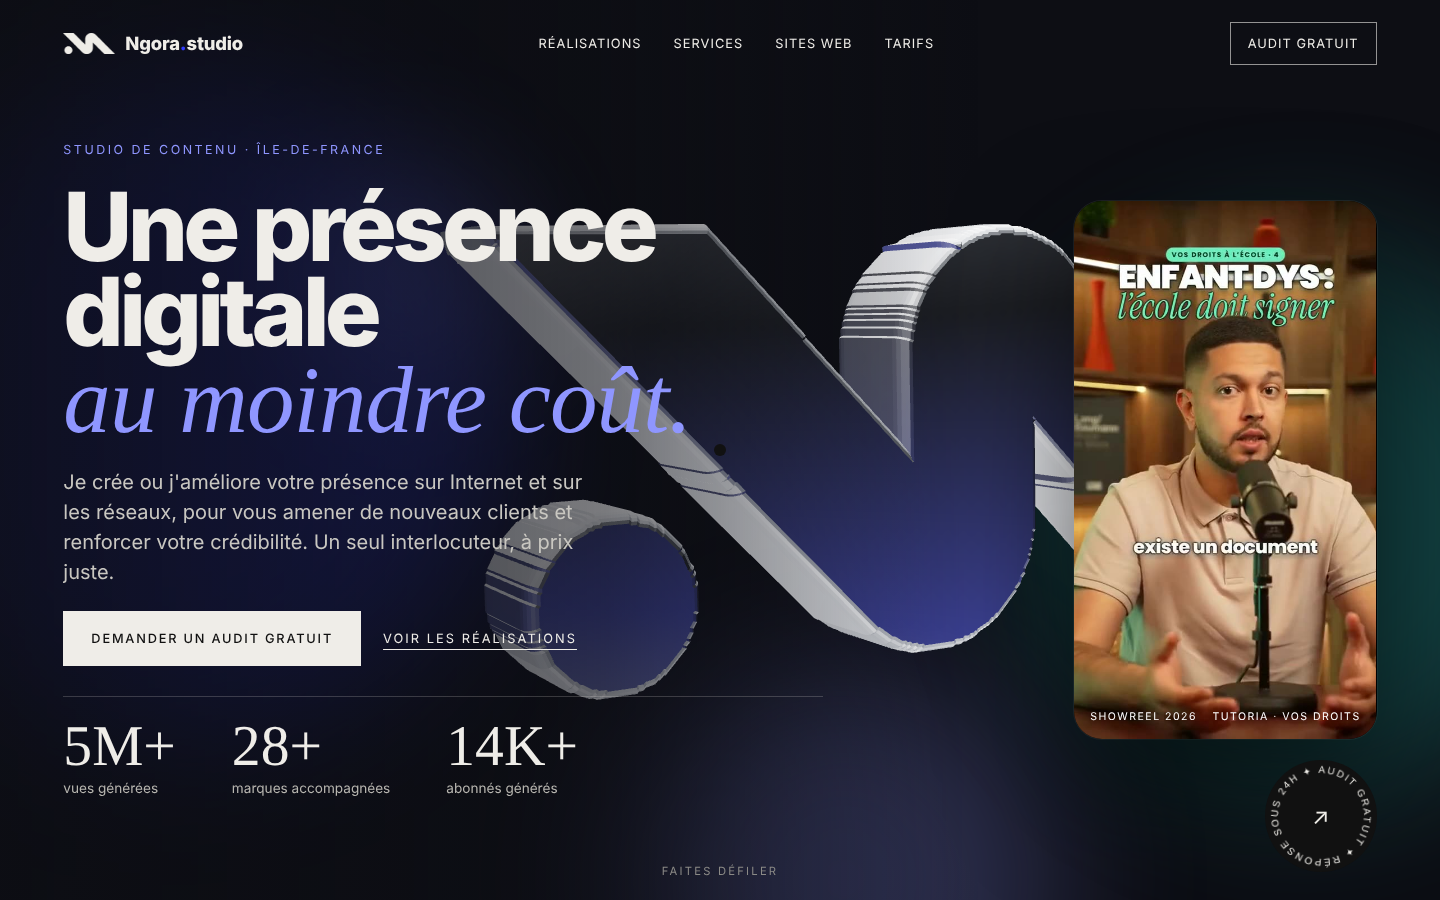
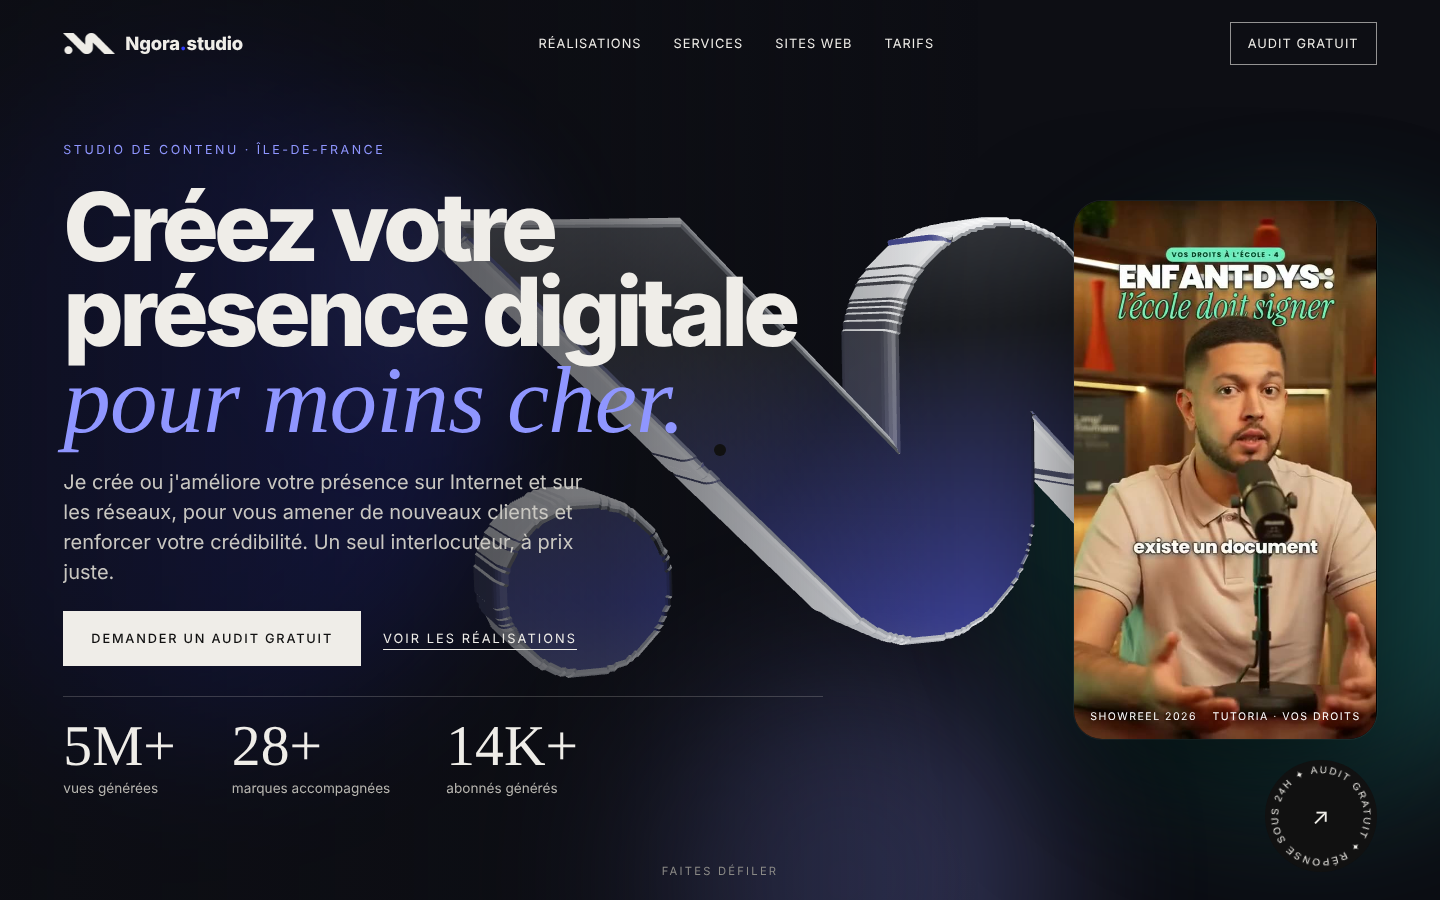
Proposition : tarifs en comparaison coche / croix, nouveau titre du haut de page
Claude-Session: https://claude.ai/code/session_018tAZYAxUmFNbKmCfUcRUAq

diff --git a/index.html b/index.html
@@ -10,14 +10,14 @@
 <meta property="og:locale" content="fr_FR">
 <meta property="og:site_name" content="Ngora Studio">
 <meta property="og:url" content="https://nguedjeupatrick-ctrl.github.io/ngora-site/">
-<meta property="og:title" content="Ngora Studio · Une présence digitale au moindre coût.">
+<meta property="og:title" content="Ngora Studio · Créez votre présence digitale pour moins cher.">
 <meta property="og:description" content="Montage vidéo pro, motion design, DA et sites web, livrés en 24 h max, pour le moins cher. 5M+ vues générées pour mes clients en Île-de-France.">
 <meta property="og:image" content="https://nguedjeupatrick-ctrl.github.io/ngora-site/assets/og.jpg">
 <meta property="og:image:width" content="1200">
 <meta property="og:image:height" content="630">
-<meta property="og:image:alt" content="Ngora Studio : une présence digitale au moindre coût. Montage, motion design, DA et sites web.">
+<meta property="og:image:alt" content="Ngora Studio : créez votre présence digitale pour moins cher. Montage, motion design, DA et sites web.">
 <meta name="twitter:card" content="summary_large_image">
-<meta name="twitter:title" content="Ngora Studio · Une présence digitale au moindre coût.">
+<meta name="twitter:title" content="Ngora Studio · Créez votre présence digitale pour moins cher.">
 <meta name="twitter:description" content="Montage vidéo pro, motion design, DA et sites web, livrés en 24 h max, pour le moins cher.">
 <meta name="twitter:image" content="https://nguedjeupatrick-ctrl.github.io/ngora-site/assets/og.jpg">
 <meta name="theme-color" content="#EFEDE8">
@@ -620,6 +620,14 @@
   .tile.tk.playing::after{opacity:1}
   .tile.tk:hover .tk-play,.tile.tk.playing .tk-play{opacity:0;transform:scale(.6)}
   @media (hover:none){.tile.tk[data-cursor="Play"]::after{content:"";width:auto;height:auto;border-radius:0;transform:none;left:0;top:0;margin:0}}
+  /* tarifs : comparaison coche / croix */
+  .plan ul.cmp li{position:relative;padding-left:30px}
+  .plan ul.cmp li::before{position:absolute;left:0;top:9px;width:20px;height:20px;border-radius:50%;display:flex;align-items:center;justify-content:center;font-size:.72rem;font-weight:800;line-height:1}
+  .plan ul.cmp li.ok::before{content:"✓";background:var(--cobalt);color:var(--paper)}
+  .plan ul.cmp li.no{color:var(--stone)}
+  .plan ul.cmp li.no::before{content:"✕";box-shadow:inset 0 0 0 1px var(--stone);color:var(--stone)}
+  .plan ul.cmp b{font-weight:800}
+  .sr{position:absolute;width:1px;height:1px;overflow:hidden;clip-path:inset(50%)}
 </style>
 </head>
 <body class="no-js">
@@ -662,7 +670,7 @@
   <div class="hero-in wrap">
     <div class="hero-txt">
       <div class="kick hx">Studio de contenu · Île-de-France</div>
-      <h1 class="hx">Une présence digitale<br><span class="it">au moindre coût.</span></h1>
+      <h1 class="hx">Créez votre présence digitale<br><span class="it">pour moins cher.</span></h1>
       <p class="lead hx">Je crée ou j'améliore votre présence sur Internet et sur les réseaux, pour vous amener de nouveaux clients et renforcer votre crédibilité. Un seul interlocuteur, à prix juste.</p>
       <div class="hero-ctas hx"><a href="#contact" class="btn" data-wa>Demander un audit gratuit</a><a href="#travaux" class="ulink">Voir les réalisations</a></div>
       <div class="hero-stats hx">
@@ -861,9 +869,9 @@
     <div class="kick">Tarifs</div>
     <h2 class="h2 rv" style="margin-top:18px">La qualité d'un studio,<br><span class="it">le prix d'un indépendant.</span></h2>
     <div class="plans">
-      <div class="plan"><span class="tag">Formule I</span><h3>Visible</h3><p class="for">Des réseaux tenus à jour, et on vous trouve sur Google.</p><div class="price">299€<small> /mois</small></div><ul><li><b>Gestion de 2 réseaux</b> au choix (Instagram, TikTok, Facebook…)</li><li>4 publications par mois : posts, carrousels et stories, avec vos photos</li><li>Idées de contenu, textes et hashtags rédigés pour vous</li><li>Création des visuels à vos couleurs</li><li>Programmation et publication aux bonnes heures</li><li>Fiche Google, annuaires et IA : on vous trouve sur Google, sur Maps et quand on demande à une IA</li><li>Réponse à chaque avis Google et QR code « laissez un avis »</li></ul><a class="btn line" href="#contact" data-wa>En parler</a></div>
-      <div class="plan hot"><span class="tag">Formule II · Recommandée</span><h3>Actif</h3><p class="for">On vous trouve, on vous choisit, on vous suit.</p><div class="price">499€<small> /mois</small></div><ul><li><b>Gestion de 4 réseaux</b> (Instagram, TikTok, Facebook, YouTube Shorts)</li><li>12 publications par mois : posts, carrousels et stories</li><li>1 tournage sur place et 8 vidéos montées par mois (reels, TikTok, Shorts), avec sous-titres et habillage</li><li>Idées, scripts et textes rédigés pour vous</li><li>Création design et motion design</li><li>DA &amp; rebranding : couleurs, feed, stories à la une, couvertures</li><li>Publication, réponses aux commentaires et aux messages</li><li>Fiche Google, annuaires et IA : on vous trouve sur Google, sur Maps et quand on demande à une IA</li><li>Réponse à chaque avis Google et QR code « laissez un avis »</li><li>Un point sur vos chiffres chaque mois</li></ul><a class="btn" href="#contact" data-wa>En parler</a></div>
-      <div class="plan"><span class="tag">Formule III</span><h3>Complet</h3><p class="for">Je gère toute votre présence en ligne, site compris.</p><div class="price">699€<small> /mois</small></div><ul><li><b>Gestion de tous vos réseaux</b> (Instagram, TikTok, YouTube Shorts, Facebook, LinkedIn)</li><li>20 publications par mois : posts, carrousels et stories</li><li>Tournage sur place et 16 vidéos montées par mois, avec sous-titres et habillage</li><li>Idées, scripts et textes rédigés pour vous</li><li>Création design et motion design</li><li>DA &amp; rebranding complet : couleurs, feed, stories à la une, couvertures</li><li>Publication, réponses aux commentaires et aux messages</li><li>Fiche Google, annuaires et IA : on vous trouve sur Google, sur Maps et quand on demande à une IA</li><li>Réponse à chaque avis Google et QR code « laissez un avis »</li><li>2 articles par mois pour sortir sur Google</li><li>Un site simple d'une page, pensé pour le téléphone</li><li>Un point sur vos chiffres chaque mois</li></ul><a class="btn line" href="#contact" data-wa>En parler</a></div>
+      <div class="plan"><span class="tag">Formule I</span><h3>Visible</h3><p class="for">Des réseaux tenus à jour, et on vous trouve sur Google.</p><div class="price">299€<small> /mois</small></div><ul class="cmp"><li class="ok"><b>2 réseaux</b> au choix (Instagram, TikTok, Facebook…)</li><li class="ok"><b>4 publications</b> par mois : posts, carrousels, stories</li><li class="ok">Idées, scripts et textes rédigés pour vous</li><li class="ok"><b>DA &amp; rebranding</b> : couleurs, feed, stories à la une, couvertures</li><li class="ok"><b>Fiche Google, annuaires et IA</b> : on vous trouve partout</li><li class="ok">Réponse à chaque avis Google et QR code « laissez un avis »</li><li class="no"><span class="sr">Non inclus : </span>Vidéos montées</li><li class="no"><span class="sr">Non inclus : </span>Motion design</li><li class="no"><span class="sr">Non inclus : </span>Réponses aux commentaires et aux messages</li><li class="no"><span class="sr">Non inclus : </span>Un point sur vos chiffres chaque mois</li><li class="no"><span class="sr">Non inclus : </span>Articles pour sortir sur Google</li><li class="no"><span class="sr">Non inclus : </span>Un site d'une page, pensé pour le téléphone</li></ul><a class="btn line" href="#contact" data-wa>En parler</a></div>
+      <div class="plan hot"><span class="tag">Formule II · Recommandée</span><h3>Actif</h3><p class="for">On vous trouve, on vous choisit, on vous suit.</p><div class="price">499€<small> /mois</small></div><ul class="cmp"><li class="ok"><b>4 réseaux</b> (Instagram, TikTok, Facebook, YouTube Shorts)</li><li class="ok"><b>12 publications</b> par mois : posts, carrousels, stories</li><li class="ok">Idées, scripts et textes rédigés pour vous</li><li class="ok"><b>DA &amp; rebranding</b> : couleurs, feed, stories à la une, couvertures</li><li class="ok"><b>Fiche Google, annuaires et IA</b> : on vous trouve partout</li><li class="ok">Réponse à chaque avis Google et QR code « laissez un avis »</li><li class="ok"><b>8 vidéos</b> montées par mois, 1 tournage sur place</li><li class="ok">Motion design</li><li class="ok">Réponses aux commentaires et aux messages</li><li class="ok">Un point sur vos chiffres chaque mois</li><li class="no"><span class="sr">Non inclus : </span>Articles pour sortir sur Google</li><li class="no"><span class="sr">Non inclus : </span>Un site d'une page, pensé pour le téléphone</li></ul><a class="btn" href="#contact" data-wa>En parler</a></div>
+      <div class="plan"><span class="tag">Formule III</span><h3>Complet</h3><p class="for">Je gère toute votre présence en ligne, site compris.</p><div class="price">699€<small> /mois</small></div><ul class="cmp"><li class="ok"><b>Tous vos réseaux</b>, LinkedIn compris</li><li class="ok"><b>20 publications</b> par mois : posts, carrousels, stories</li><li class="ok">Idées, scripts et textes rédigés pour vous</li><li class="ok"><b>DA &amp; rebranding</b> : couleurs, feed, stories à la une, couvertures</li><li class="ok"><b>Fiche Google, annuaires et IA</b> : on vous trouve partout</li><li class="ok">Réponse à chaque avis Google et QR code « laissez un avis »</li><li class="ok"><b>16 vidéos</b> montées par mois, tournage sur place</li><li class="ok">Motion design</li><li class="ok">Réponses aux commentaires et aux messages</li><li class="ok">Un point sur vos chiffres chaque mois</li><li class="ok"><b>2 articles</b> par mois pour sortir sur Google</li><li class="ok">Un site d'une page, pensé pour le téléphone</li></ul><a class="btn line" href="#contact" data-wa>En parler</a></div>
     </div>
     <p class="p-note">Sans engagement : vous arrêtez quand vous voulez. Comptez tout de même 3 mois pour voir de vrais résultats.</p>
   </div>
